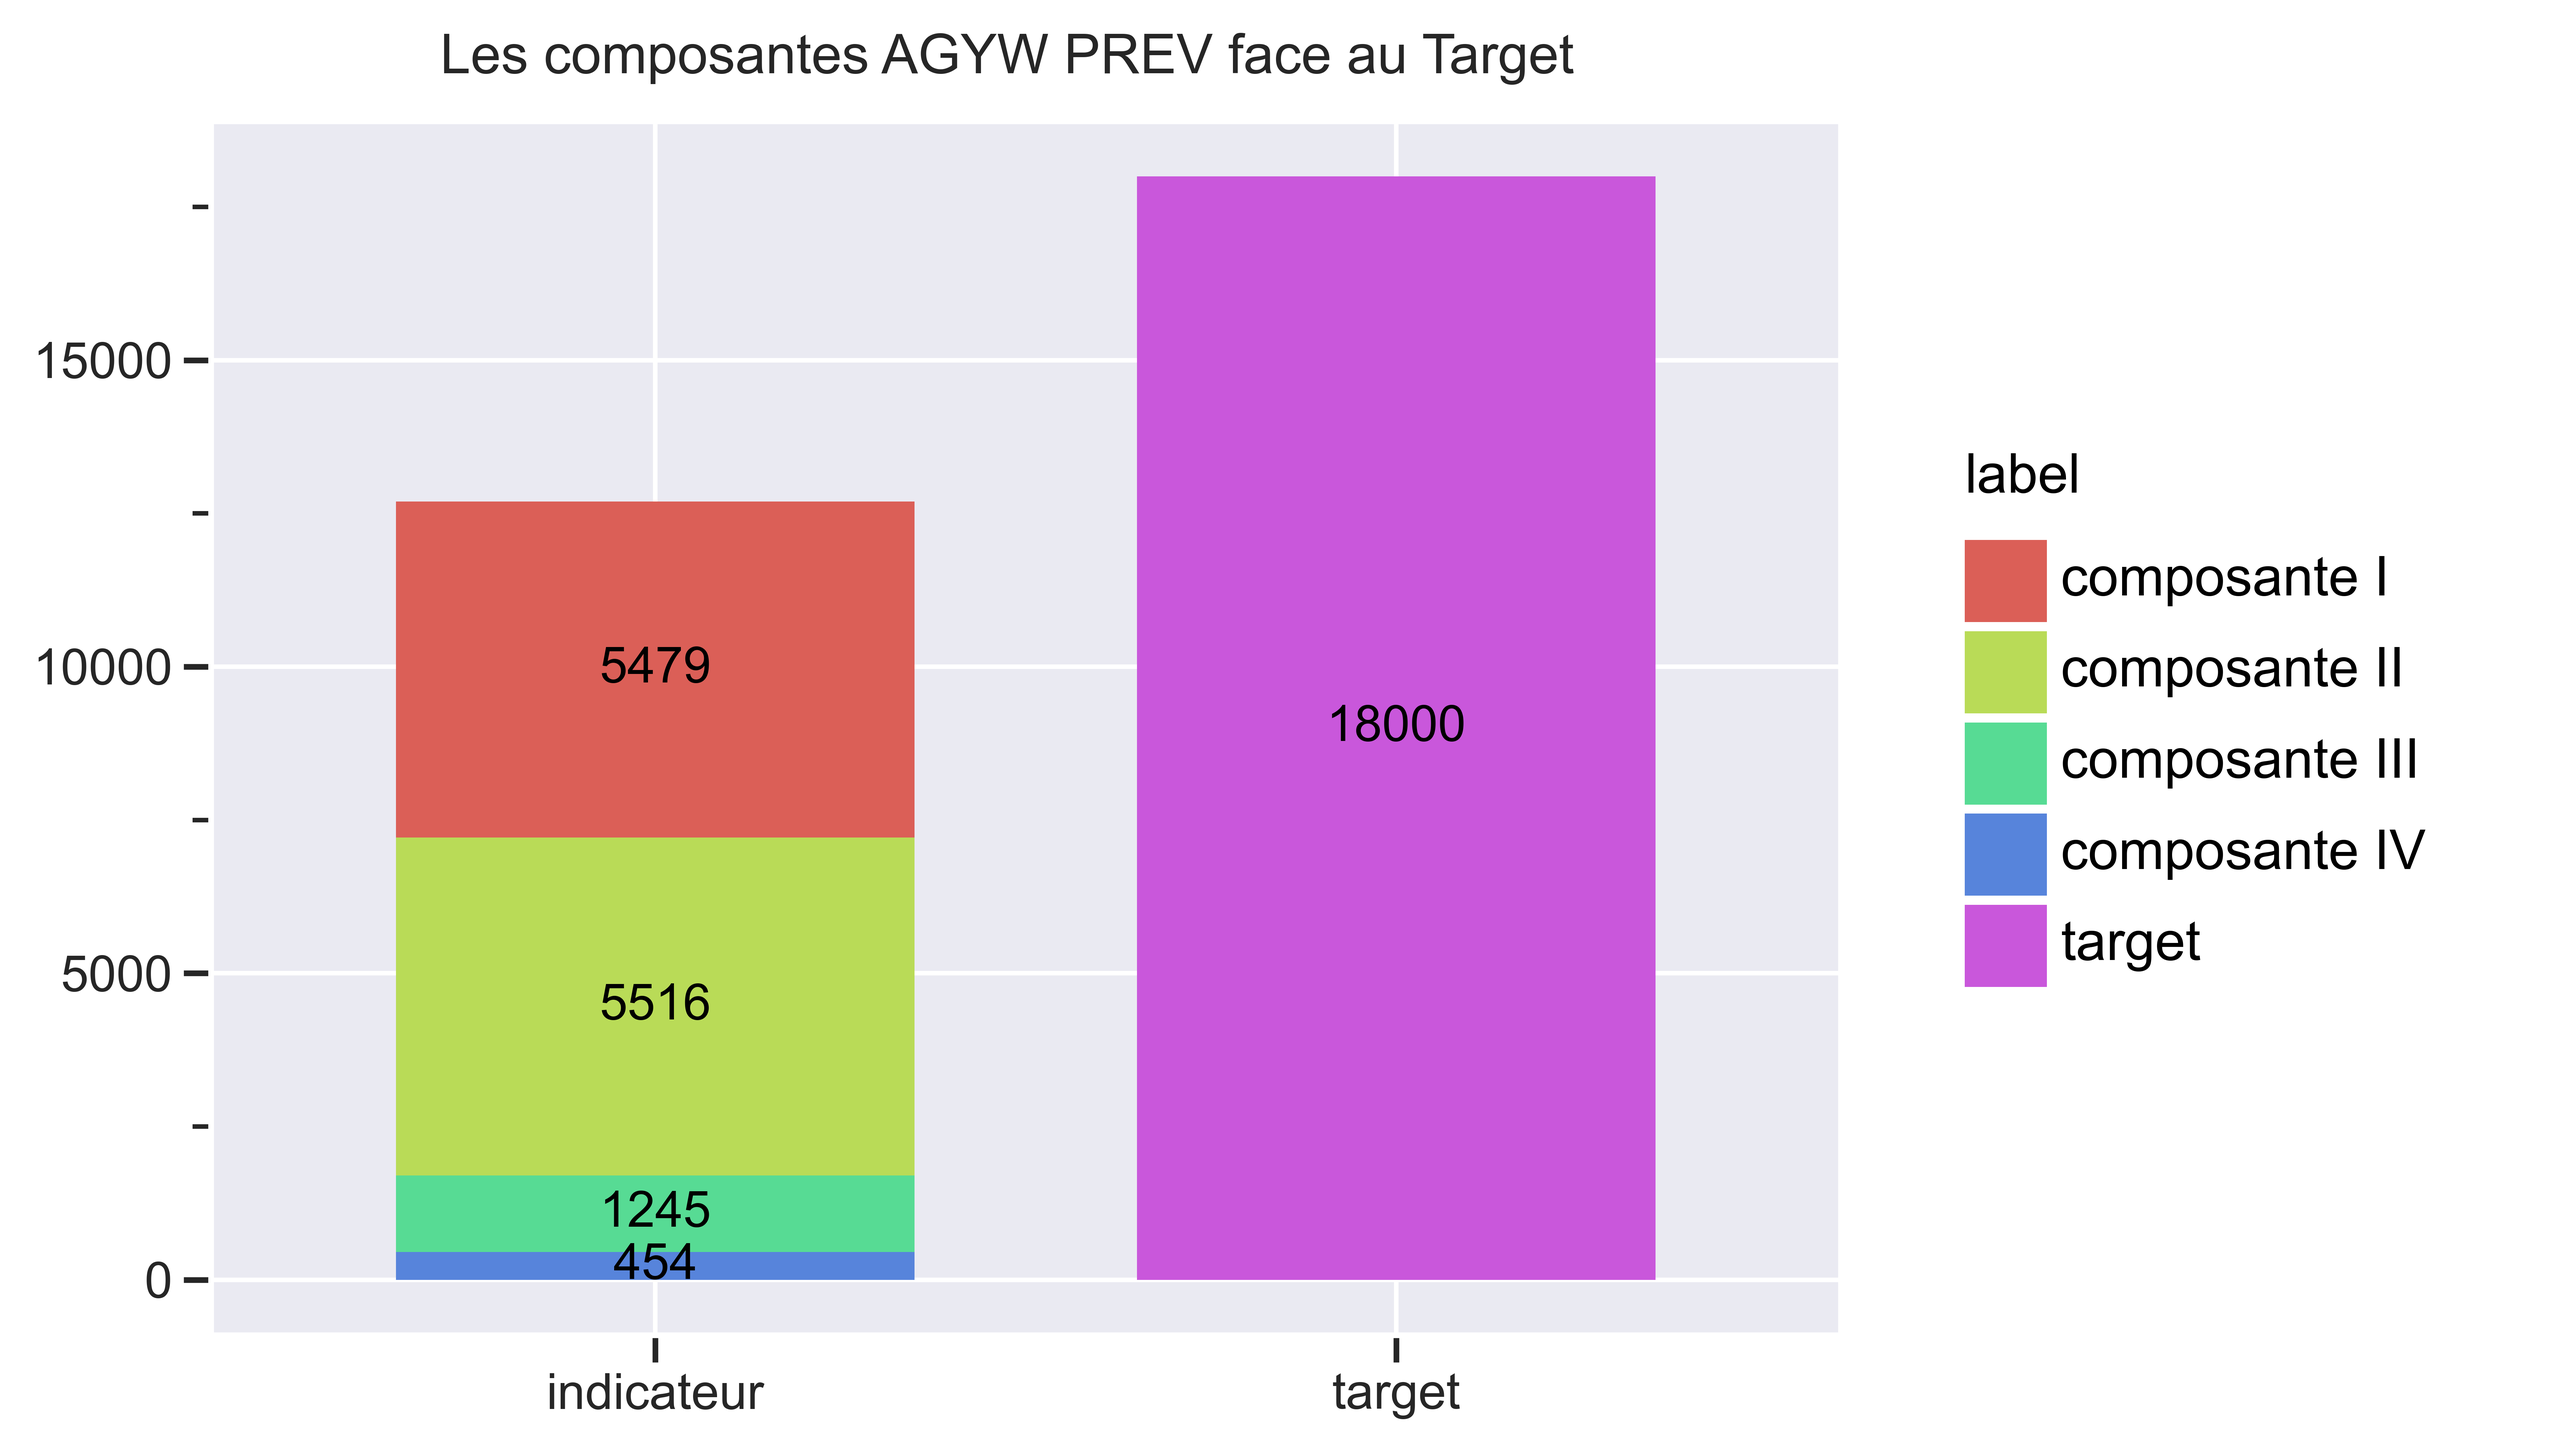
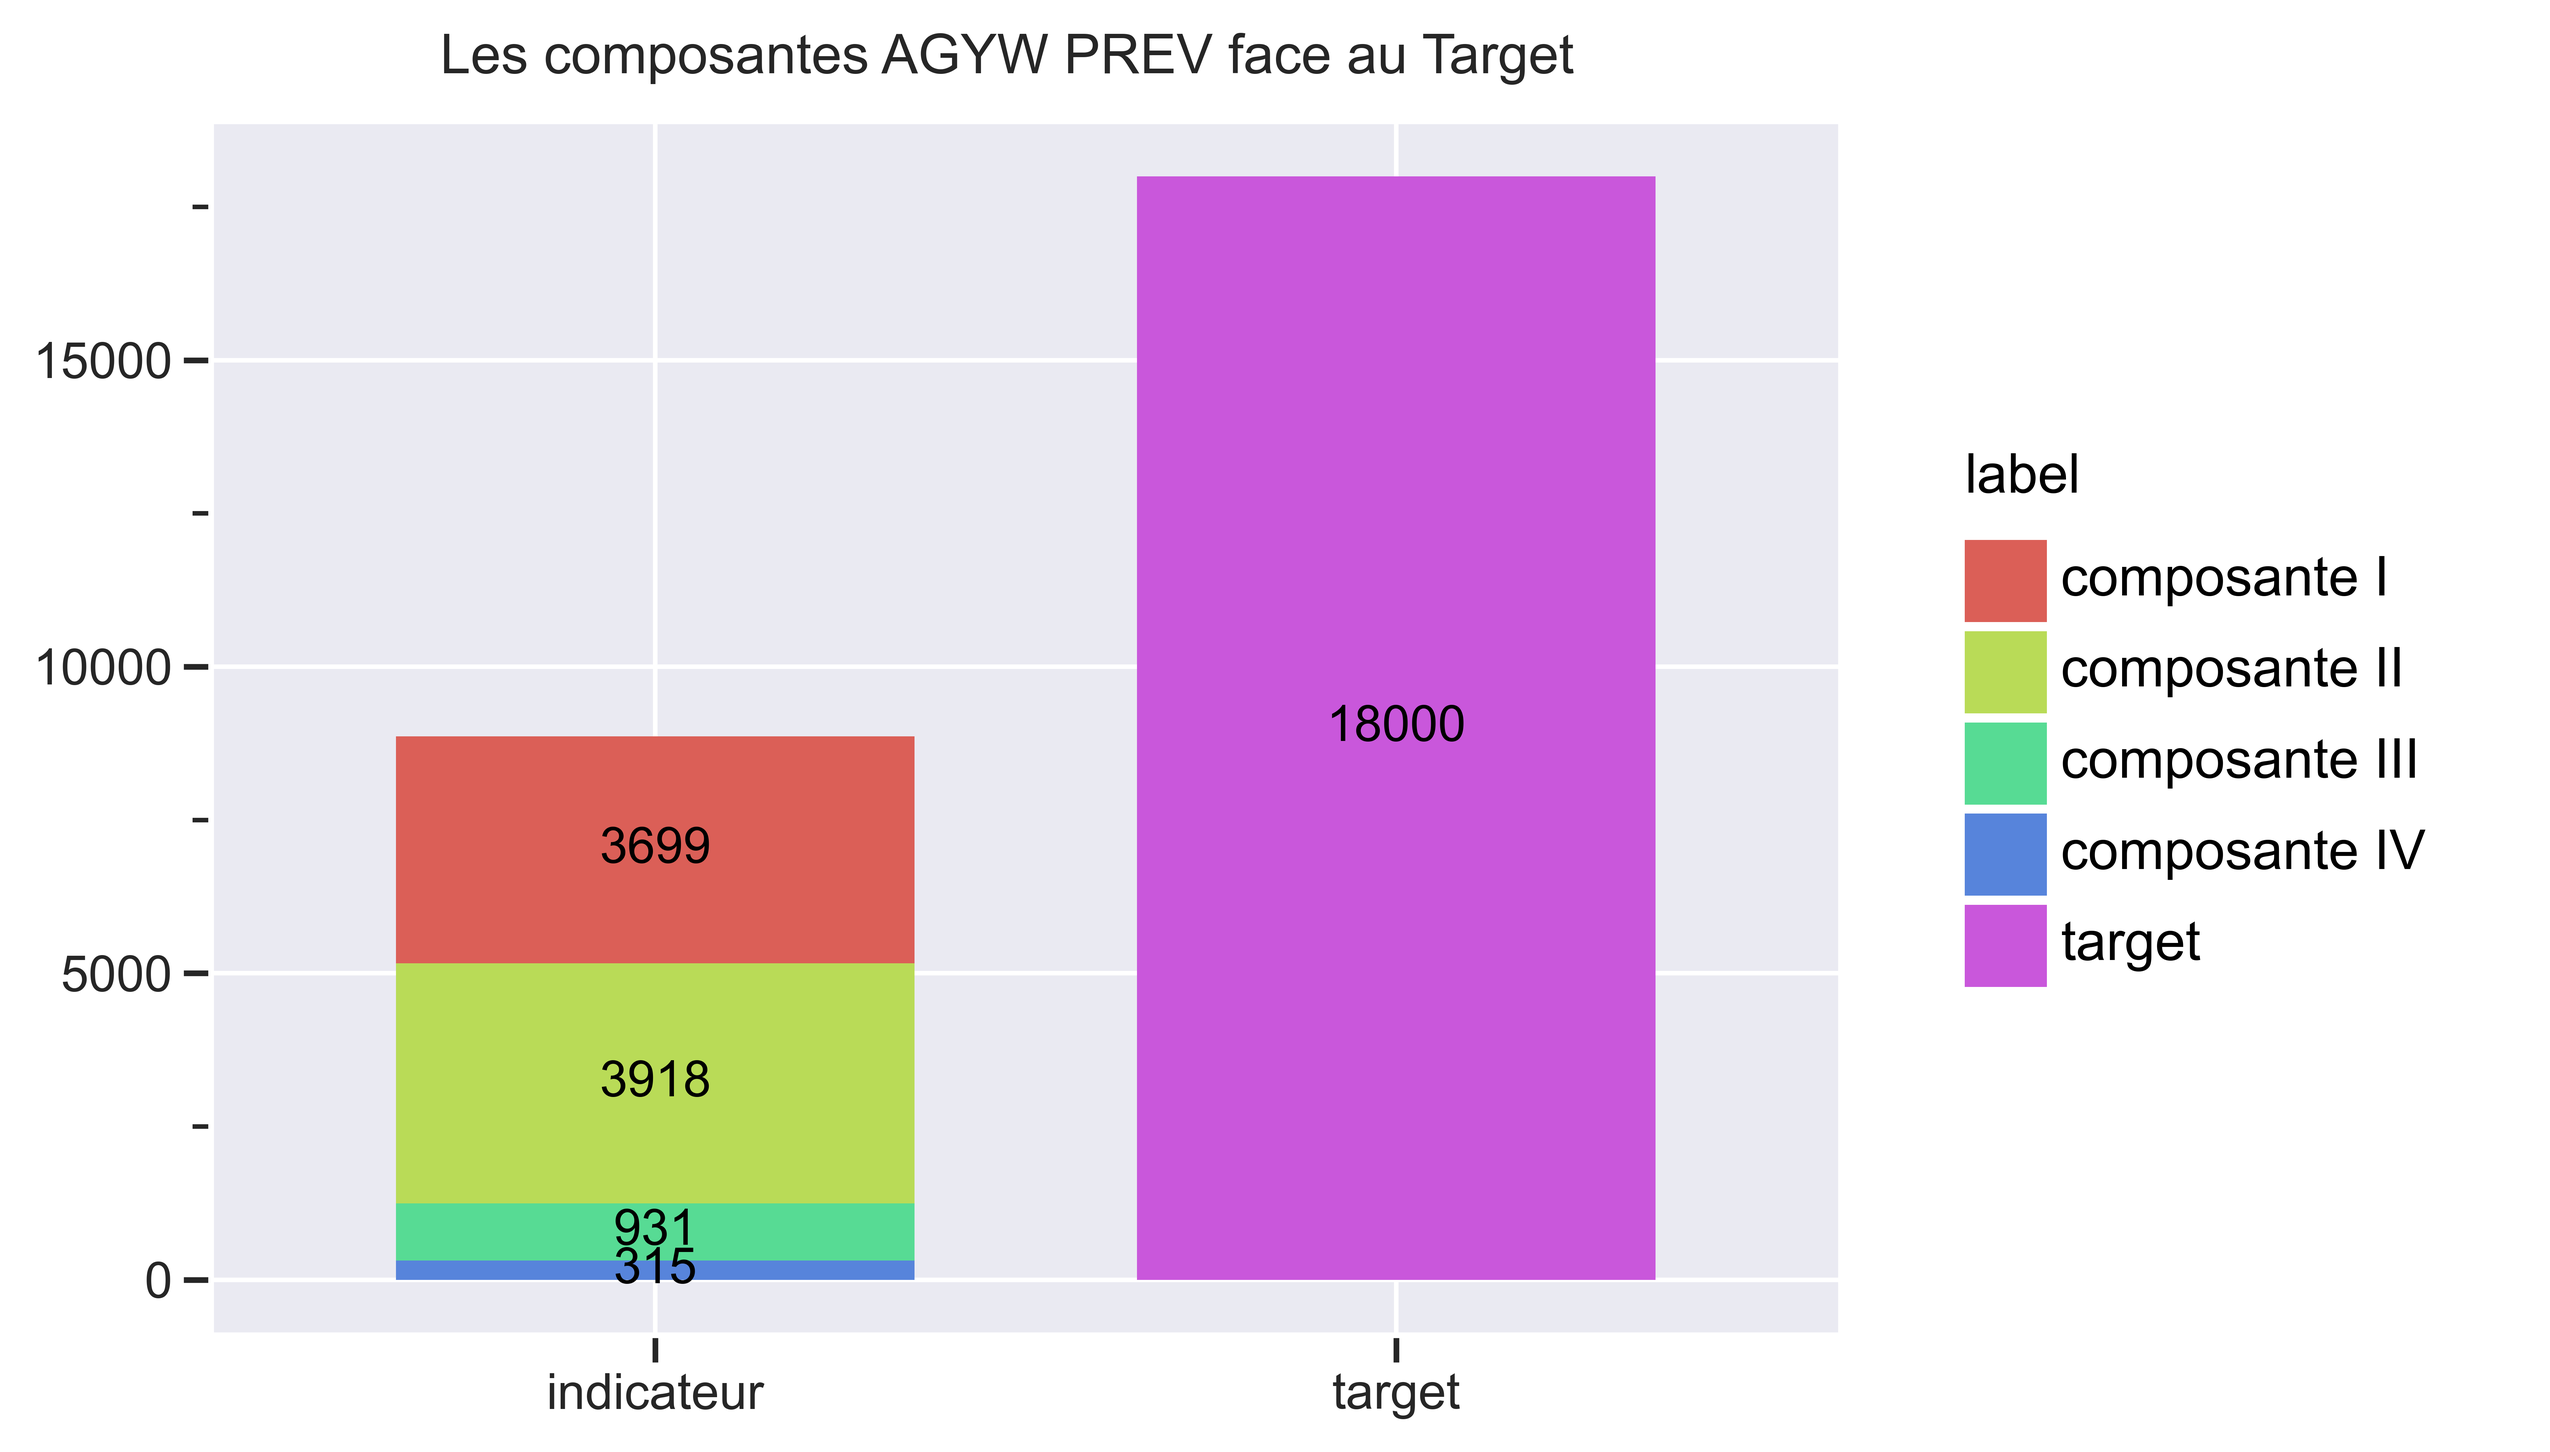
quick Q3 report

Changed region(s): [[0.1559, 0.3434, 0.3742, 0.5306], [0.1559, 0.5619, 0.3742, 0.7492], [0.1559, 0.8116, 0.3742, 0.9052]]

diff --git a/src/agyw_prev_component/agyw_actif.py b/src/agyw_prev_component/agyw_actif.py
@@ -19,7 +19,7 @@ class Set_date(Enum):
    master_start = "2017-10-01"
    master_end= "2021-09-30"
    period_start = "2020-10-01"
-   period_end = "2021-06-30"
+   period_end = "2021-09-30"
 
 # get the engine to connect and fetch
 engine = create_engine(f"mysql+pymysql://{USER}:{PASSWORD}@{HOSTNAME}/{DBNAME}")
